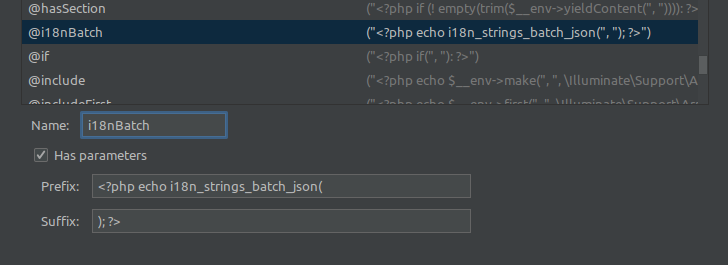
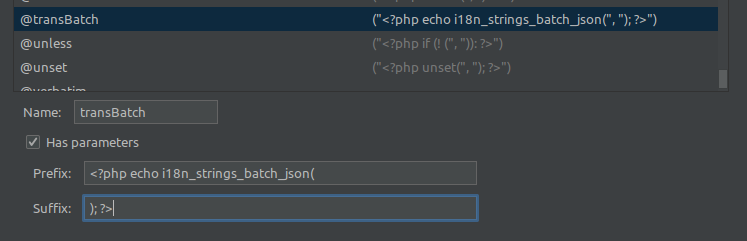
Rename directive to transBatch

diff --git a/src/ServiceProvider.php b/src/ServiceProvider.php
@@ -8,7 +8,12 @@ class ServiceProvider extends \Illuminate\Support\ServiceProvider
 {
     public function boot()
     {
+        /* @deprecated - phpstorm not supports num regex */
         Blade::directive('i18nBatch', function ($expression) {
+            return "<?php echo i18n_strings_batch_json($expression); ?>";
+        });
+
+        Blade::directive('transBatch', function ($expression) {
             return "<?php echo i18n_strings_batch_json($expression); ?>";
         });
     }

diff --git a/README.md b/README.md
@@ -54,11 +54,11 @@ i18n_strings_batch_json("modal-confirmation")
 
 ```html
 <licenses-list
-    :i18n-batch='@i18nBatch("licenses-list")'
+    :i18n-batch='@transBatch("licenses-list")'
 />
 <!-- or -->
 <licenses-list
-    :i18n-batch='@i18nBatch(["licenses-list", "modal-confirmation"])'
+    :i18n-batch='@transBatch(["licenses-list", "modal-confirmation"])'
 />
 ```
 
@@ -71,7 +71,7 @@ Example you can find [there](./docs/vue.md)
 ![](./docs/assets/phpstorm.png)
 
 ```txt
-i18nBatch
+transBatch
 <?php echo i18n_strings_batch_json(
 ); ?>
 ```
